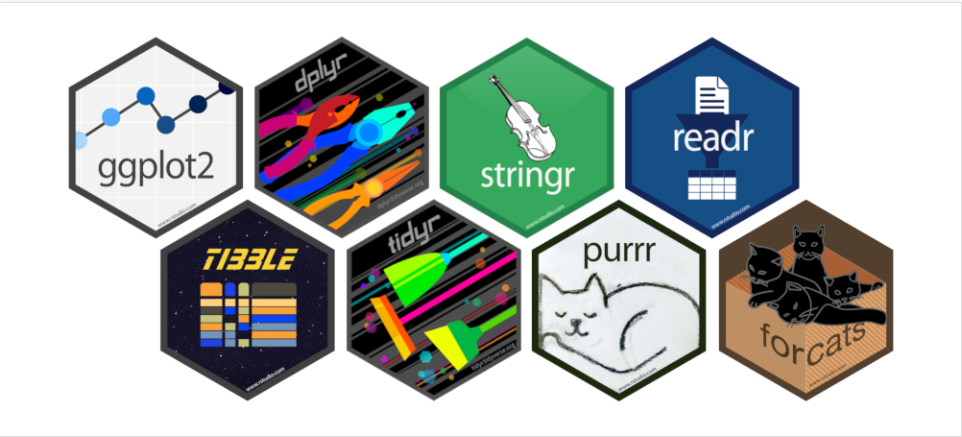
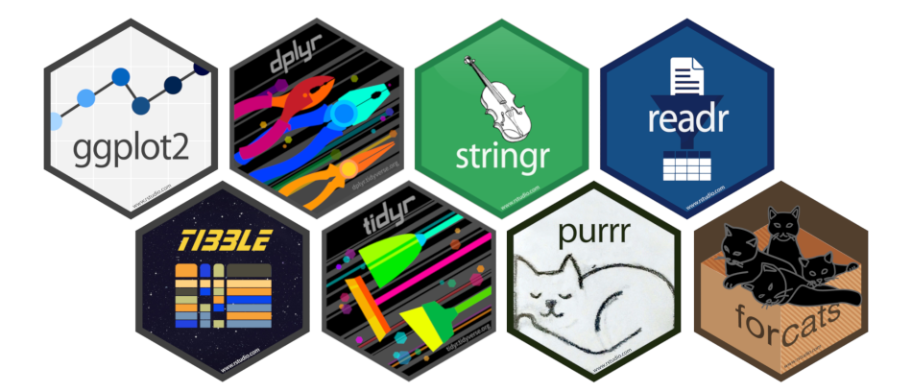
courses 2

diff --git a/courses.html b/courses.html
@@ -253,6 +253,9 @@ $(document).ready(function () {
   <a href="conferences.html">Conferences</a>
 </li>
 <li>
+  <a href="courses.html">Courses and Ressources</a>
+</li>
+<li>
   <a href="automat.html">Séminaire AuToMat</a>
 </li>
       </ul>
@@ -268,17 +271,37 @@ $(document).ready(function () {
 
 
 <h1 class="title toc-ignore">Courses and Ressources</h1>
+<h3 class="subtitle">IEDES - Master mention Etudes du Développement</h3>
 
 </div>
 
 
+<hr />
 <p><link rel="shortcut icon" href="favicon.ico"></p>
 <div class="columns">
-<div class="column" style="width:48%;">
-<p><em>IEDES - Master mention “Etudes du Développement”</em></p>
-<p>Master 1</p>
+<div class="column" style="width:62%;">
+<p><em>Master 1</em></p>
 <p><strong>Development Measurement</strong></p>
+<p>The aim of this course is to shed critical light on the indicators
+used to measure development. This course proposes:</p>
+<ol style="list-style-type: decimal">
+<li><p>How the main development indicators are constructed, what
+information they provide and what their limitations are?</p></li>
+<li><p>How to address data sources and the complexity of measurement in
+developing countries?</p></li>
+</ol>
 <p><strong>Econometrics</strong></p>
+<p>This course deepens the basics of econometrics, providing students
+with a solid understanding of the estimation and modelling techniques
+essential for analysing economic problems related to development. The
+following topics will be covered:</p>
+<ul>
+<li><p>The classical regression model</p></li>
+<li><p>Properties of the OLS estimator in large samples</p></li>
+<li><p>Heteroscedasticity: The problem and correction methods</p></li>
+<li><p>Non-linear models: Probit and Logit</p></li>
+<li><p>Count models: Poisson models</p></li>
+</ul>
 <!---
 - The classical regression model
 
@@ -286,14 +309,16 @@ $(document).ready(function () {
 
 - Non-linear models
 
+**Data Exploration and Modelling (Inequalities, Discrimination)**
+
+**Tutored Projects in Development Economics**
 --->
-<p><strong>Tutored Projects in Development Economics</strong></p>
-<p>**Data Exploration and Modelling (Inequalities, Discrimination)*</p>
 <hr />
-<p>Master 2</p>
-<p><a
-href="https://jeanbaptisteguiffard.github.io/courses_climatedata.html"><strong>Climate
-and Data</strong></a></p>
+<p><em>Master 2</em></p>
+<p><strong>Climate and Data</strong></p>
+<!---
+[**Climate and Data**](https://jeanbaptisteguiffard.github.io/courses_climatedata.html)
+--->
 <p>To become familiar with climate issues and to understand the
 construction of sustainable development indicators, this course
 proposes:</p>
@@ -322,9 +347,10 @@ Lessons:
 </div><div class="column" style="width:4%;">
 <p>  <!-- an empty Div (with a white space), serving as
 a column separator --></p>
-</div><div class="column" style="width:48%;">
+</div><div class="column" style="width:34%;">
 <p><strong>Ressources</strong></p>
-<p><img src="images/2_packages_tidyverse.png" style="width:50.0%" /></p>
+<p><img src="images/2_packages_tidyverse.png"
+style="width:100.0%" /></p>
 <ul>
 <li><p><a href="courses/ressources/R/Cheatsheet_BASE_R.pdf">Cheatsheet
 Base R</a></p></li>

diff --git a/courses_climatedata.html b/courses_climatedata.html
@@ -252,6 +252,9 @@ $(document).ready(function () {
   <a href="conferences.html">Conferences</a>
 </li>
 <li>
+  <a href="courses.html">Courses and Ressources</a>
+</li>
+<li>
   <a href="automat.html">Séminaire AuToMat</a>
 </li>
       </ul>
@@ -272,6 +275,7 @@ $(document).ready(function () {
 </div>
 
 
+<p><link rel="shortcut icon" href="favicon.ico"></p>
 <p>Lessons:</p>
 <ul>
 <li><p>The Basics of R / Manipulating datasets with Dplyr</p></li>

diff --git a/automat.html b/automat.html
@@ -252,6 +252,9 @@ $(document).ready(function () {
   <a href="conferences.html">Conferences</a>
 </li>
 <li>
+  <a href="courses.html">Courses and Ressources</a>
+</li>
+<li>
   <a href="automat.html">Séminaire AuToMat</a>
 </li>
       </ul>

diff --git a/automat_2022.html b/automat_2022.html
@@ -252,6 +252,9 @@ $(document).ready(function () {
   <a href="conferences.html">Conferences</a>
 </li>
 <li>
+  <a href="courses.html">Courses and Ressources</a>
+</li>
+<li>
   <a href="automat.html">Séminaire AuToMat</a>
 </li>
       </ul>

diff --git a/automat_2023.html b/automat_2023.html
@@ -252,6 +252,9 @@ $(document).ready(function () {
   <a href="conferences.html">Conferences</a>
 </li>
 <li>
+  <a href="courses.html">Courses and Ressources</a>
+</li>
+<li>
   <a href="automat.html">Séminaire AuToMat</a>
 </li>
       </ul>

diff --git a/conferences.html b/conferences.html
@@ -252,6 +252,9 @@ $(document).ready(function () {
   <a href="conferences.html">Conferences</a>
 </li>
 <li>
+  <a href="courses.html">Courses and Ressources</a>
+</li>
+<li>
   <a href="automat.html">Séminaire AuToMat</a>
 </li>
       </ul>

diff --git a/index.html b/index.html
@@ -252,6 +252,9 @@ $(document).ready(function () {
   <a href="conferences.html">Conferences</a>
 </li>
 <li>
+  <a href="courses.html">Courses and Ressources</a>
+</li>
+<li>
   <a href="automat.html">Séminaire AuToMat</a>
 </li>
       </ul>

diff --git a/research.html b/research.html
@@ -252,6 +252,9 @@ $(document).ready(function () {
   <a href="conferences.html">Conferences</a>
 </li>
 <li>
+  <a href="courses.html">Courses and Ressources</a>
+</li>
+<li>
   <a href="automat.html">Séminaire AuToMat</a>
 </li>
       </ul>

diff --git a/short-vitae.html b/short-vitae.html
@@ -252,6 +252,9 @@ $(document).ready(function () {
   <a href="conferences.html">Conferences</a>
 </li>
 <li>
+  <a href="courses.html">Courses and Ressources</a>
+</li>
+<li>
   <a href="automat.html">Séminaire AuToMat</a>
 </li>
       </ul>

diff --git a/getting_sophisticated.html b/getting_sophisticated.html
@@ -328,6 +328,9 @@ div.tocify {
   <a href="conferences.html">Conferences</a>
 </li>
 <li>
+  <a href="courses.html">Courses and Ressources</a>
+</li>
+<li>
   <a href="automat.html">Séminaire AuToMat</a>
 </li>
       </ul>
